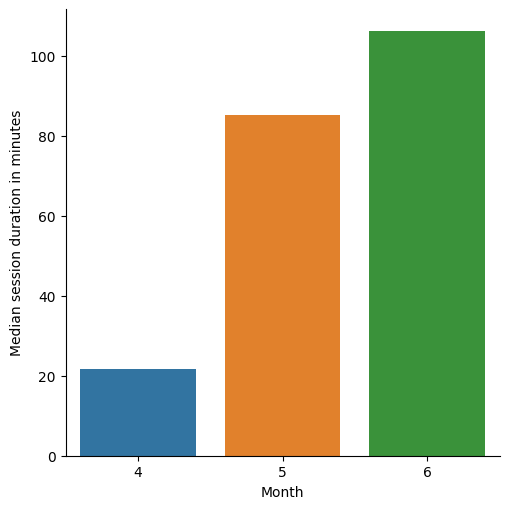
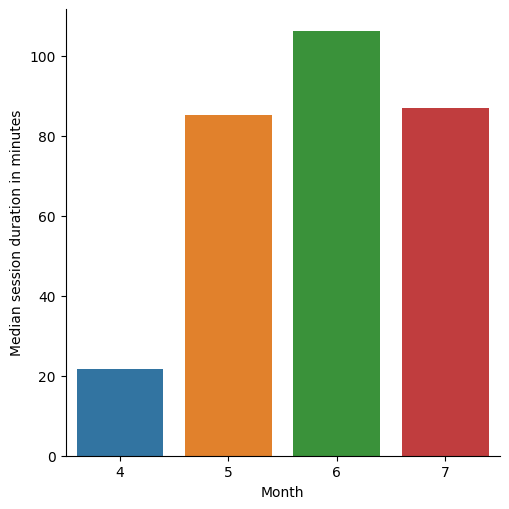
"Stats generated 2021-07-02"

diff --git a/all/2021/7/index.html b/all/2021/7/index.html
@@ -1,0 +1,54 @@
+<!DOCTYPE html>
+<html>
+  <head>
+    <meta charset="utf-8"/>
+    <title>July 2021</title>
+    <link rel="stylesheet" href="../../../styles.css"/>
+  </head>
+  <body>
+    <div id="container">
+      <nav>
+        <ul>
+          
+            <li><a href="../">2021</a></li>
+            <li class="separator"></li>
+          
+          
+            
+              <li><span>Weekdays</span></li>
+            
+          
+            
+              <li><a href="weekdays/3/">Thursday</a></li>
+            
+          
+            
+              <li><span>Day of Month</span></li>
+            
+          
+            
+              <li><a href="days/1/">1</a></li>
+            
+          
+        </ul>
+      </nav>
+      <main>
+        <h1>July 2021</h1>
+        
+          <h2>Number of sessions per day</h2>
+          <img src="day-sessions.png" alt="Number of sessions per day"/>
+        
+          <h2>Session duration per day</h2>
+          <img src="day-durations.png" alt="Session duration per day"/>
+        
+          <h2>Number of sessions per weekday</h2>
+          <img src="weekday-sessions.png" alt="Number of sessions per weekday"/>
+        
+          <h2>Session duration per weekday</h2>
+          <img src="weekday-durations.png" alt="Session duration per weekday"/>
+        
+        
+      </main>
+    </div>
+  </body>
+</html>

diff --git a/all/2021/7/weekdays/3/index.html b/all/2021/7/weekdays/3/index.html
@@ -1,0 +1,29 @@
+<!DOCTYPE html>
+<html>
+  <head>
+    <meta charset="utf-8"/>
+    <title>Thursdays July 2021</title>
+    <link rel="stylesheet" href="../../../../../styles.css"/>
+  </head>
+  <body>
+    <div id="container">
+      <nav>
+        <ul>
+          
+            <li><a href="../../">July 2021</a></li>
+            <li class="separator"></li>
+          
+          
+        </ul>
+      </nav>
+      <main>
+        <h1>Thursdays July 2021</h1>
+        
+          <h2>Number of sessions per hour</h2>
+          <img src="sessions.png" alt="Number of sessions per hour"/>
+        
+        
+      </main>
+    </div>
+  </body>
+</html>

diff --git a/all/2021/7/days/1/index.html b/all/2021/7/days/1/index.html
@@ -1,0 +1,29 @@
+<!DOCTYPE html>
+<html>
+  <head>
+    <meta charset="utf-8"/>
+    <title>1 July 2021</title>
+    <link rel="stylesheet" href="../../../../../styles.css"/>
+  </head>
+  <body>
+    <div id="container">
+      <nav>
+        <ul>
+          
+            <li><a href="../../">July 2021</a></li>
+            <li class="separator"></li>
+          
+          
+        </ul>
+      </nav>
+      <main>
+        <h1>1 July 2021</h1>
+        
+          <h2>Number of sessions per hour</h2>
+          <img src="sessions.png" alt="Number of sessions per hour"/>
+        
+        
+      </main>
+    </div>
+  </body>
+</html>

diff --git a/all/2021/index.html b/all/2021/index.html
@@ -26,6 +26,10 @@
               <li><a href="6/">June</a></li>
             
           
+            
+              <li><a href="7/">July</a></li>
+            
+          
         </ul>
       </nav>
       <main>
@@ -117,9 +121,9 @@
                   
                     <td>7.0</td>
                   
-                    <td>0.0</td>
+                    <td>3.0</td>
                   
-                    <td>nan</td>
+                    <td>87.0559444</td>
                   
                 </tr>
               
